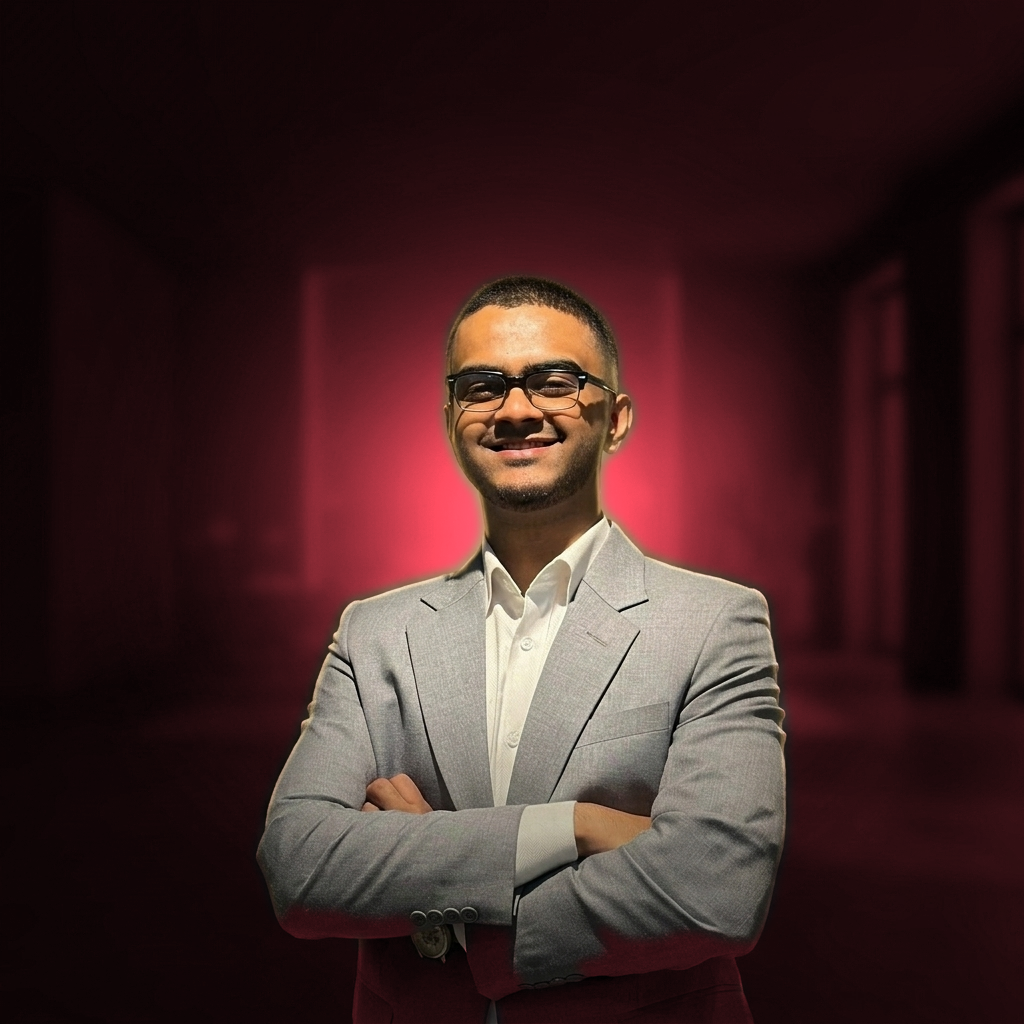
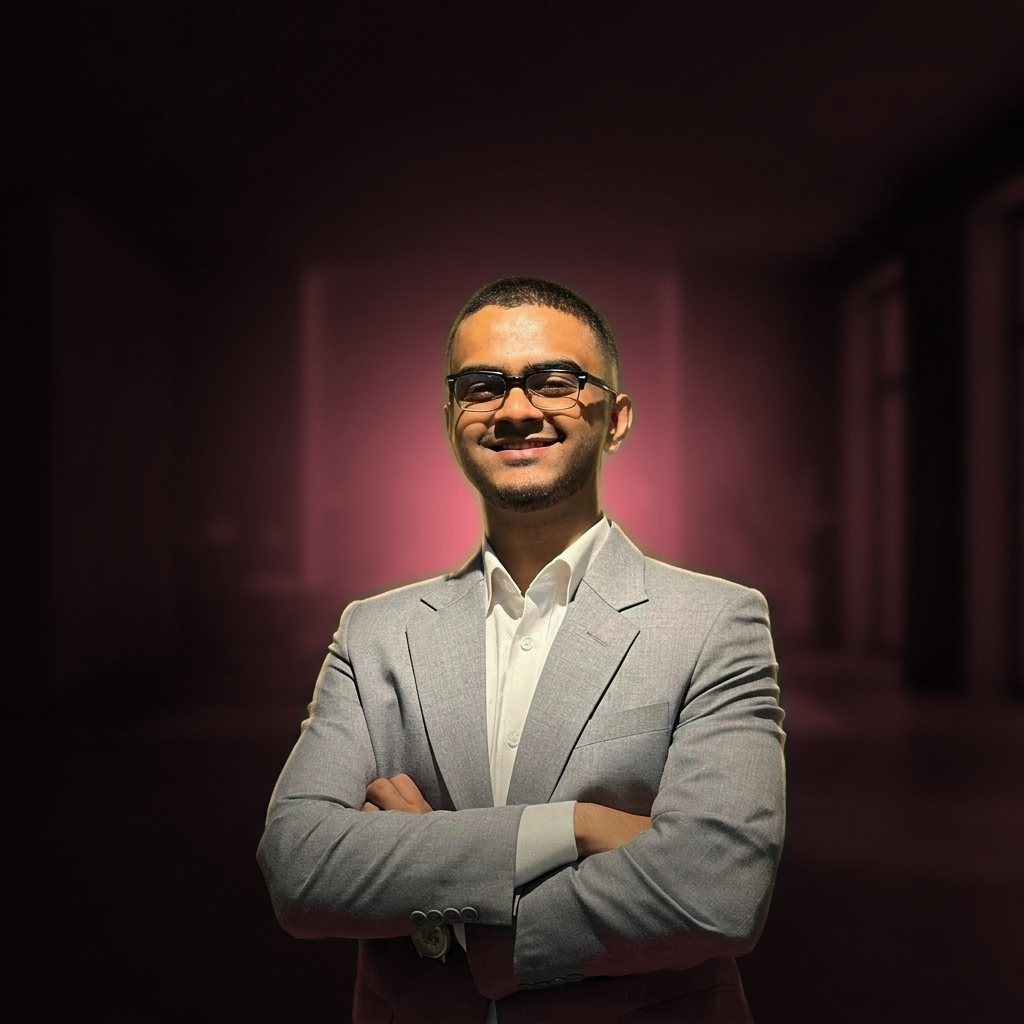
Tone down the crimson hero variant
Crimson was a flat hot wash with the wall structure blown out, while teal
and purple kept the room's depth.

The tint carries each pixel's luminance by scaling the accent by 1/its own
luminance, and crimson's accent luminance is by far the lowest — 0.314
against teal's 0.536. So red got a 2.55x multiplier where teal's green got
1.30. At the shared saturation of 0.60 that drove background saturation to
0.70 against teal's 0.50 and clipped 25% of the rendered crop, collapsing
the tonal separation that makes the wall panels visible.

Saturation is now per-palette, with crimson at 0.34. That lands it at
background saturation 0.50, matching teal exactly, with no clipping and the
wall structure back. Teal, amber and purple are unchanged at 0.60.

The audit now also reports background saturation, so the four can be
compared on a number rather than by eye.

Changed region(s): [[0.2812, 0.3125, 0.4688, 0.5938], [0.5938, 0.3125, 0.75, 0.5625]]

diff --git a/scripts/regrade-hero.py b/scripts/regrade-hero.py
@@ -39,17 +39,22 @@ import os
 SRC = 'public/AhnafHussain.png'
 OUT = 'public'
 
-# --accent-glow from app/globals.css
+# --accent-glow from app/globals.css, with how fully the ambient takes each
+# hue. The source ambient is only ~0.30 saturated; much above 0.6 stops
+# reading as a photograph.
+#
+# Crimson needs its own value. The tint carries each pixel's luminance by
+# scaling the accent by 1/its luminance, and crimson's is far the lowest
+# (0.314 against teal's 0.536), so red gets a 2.55x multiplier where teal's
+# green gets 1.30. At a shared 0.60 that pushed background saturation to 0.70
+# against teal's 0.50 and clipped a quarter of the frame, flattening the wall
+# into a hot wash. 0.34 lands crimson at 0.50, matching teal, with no clipping.
 ACCENTS = {
-    'crimson': (204, 24, 44),
-    'teal':    (43, 178, 169),
-    'amber':   (218, 150, 38),
-    'purple':  (255, 1, 255),
+    'crimson': ((204, 24, 44), 0.34),
+    'teal':    ((43, 178, 169), 0.60),
+    'amber':   ((218, 150, 38), 0.60),
+    'purple':  ((255, 1, 255), 0.60),
 }
-
-# How fully the ambient takes the accent hue. The source ambient is only ~0.30
-# saturated; much above 0.6 stops reading as a photograph.
-SAT = 0.60
 
 # Gradient below this is "flat enough to flood through". Higher leaks through
 # his outline; lower strands pockets of background.
@@ -114,12 +119,12 @@ def main(audit=False):
     crop = np.zeros(L.shape, bool)
     crop[CROP[1]:CROP[3], CROP[0]:CROP[2]] = True
 
-    for name, rgb in ACCENTS.items():
+    for name, (rgb, sat) in ACCENTS.items():
         acc = np.array(rgb, np.float32) / 255.0
         acc_lum = 0.299 * acc[0] + 0.587 * acc[1] + 0.114 * acc[2]
         # Scale the accent so it carries each pixel's own luminance
         tint = gray * (acc / acc_lum)[None, None, :]
-        tint = gray + (tint - gray) * SAT
+        tint = gray + (tint - gray) * sat
         out = np.clip(a * (1 - mask) + np.clip(tint, 0, 1) * mask, 0, 1)
 
         path = f'{OUT}/AhnafHussain-{name}.png'
@@ -130,9 +135,13 @@ def main(audit=False):
             gold = gold_hue(out) & crop
             outside = int((gold & (subject < 0.4)).sum())
             inside = int((gold & (subject >= 0.4)).sum())
+            bg = crop & (subject < 0.4)
+            mx, mn = out.max(2), out.min(2)
+            bg_sat = np.where(mx > 0, (mx - mn) / np.maximum(mx, 1e-6), 0)[bg].mean()
             line += (f'  | gold-hue: {outside} outside subject'
                      f' ({100 * outside / crop.sum():.2f}%),'
-                     f' {inside} on him (skin/suit, expected)')
+                     f' {inside} on him (skin/suit, expected)'
+                     f'  | bg saturation {bg_sat:.2f}')
         print(line)
 
 
